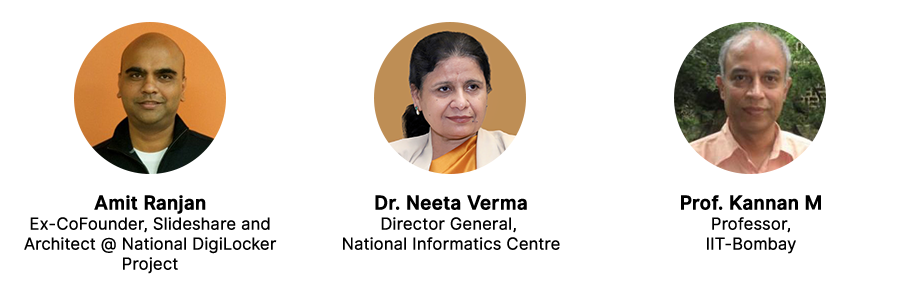
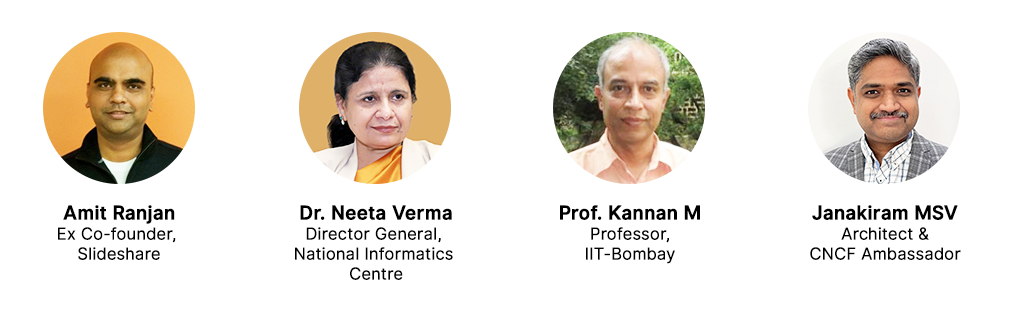
Update jury for Open Source Grants

diff --git a/Open Source/GRANTS.md b/Open Source/GRANTS.md
@@ -40,7 +40,7 @@ The decision of which individuals will be awarded a grant and the grant amount t
 
 The jury members for the GitHub Grants for Open Source program are:
 
-![Jury Members](https://user-images.githubusercontent.com/8726608/112457682-fffcfe80-8d81-11eb-8e82-ebd225cadee8.png)
+![Jury Members](assets/india-os-grants-jury.png)
 
 ## FAQ
 
